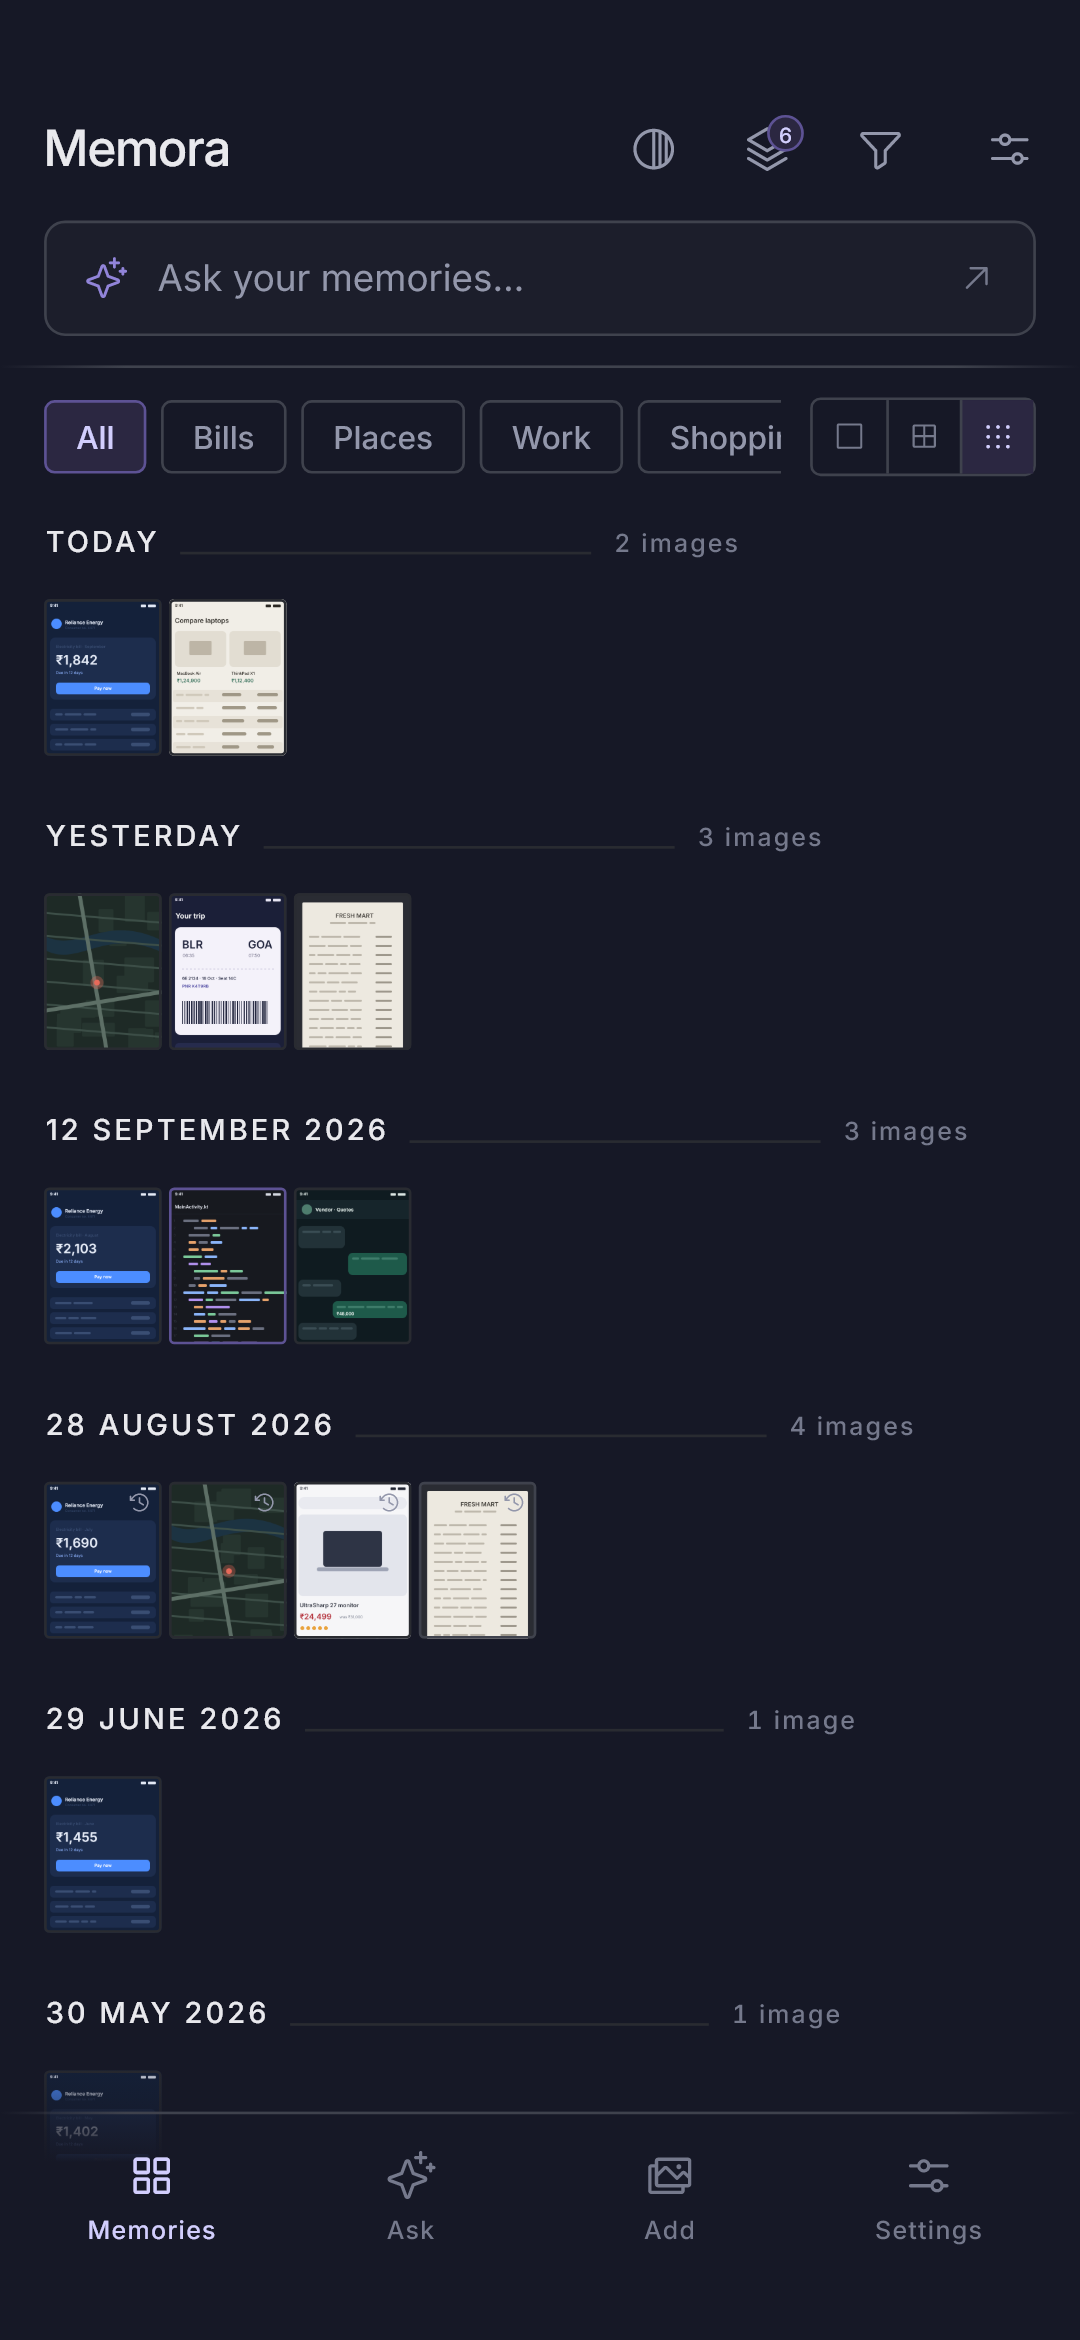
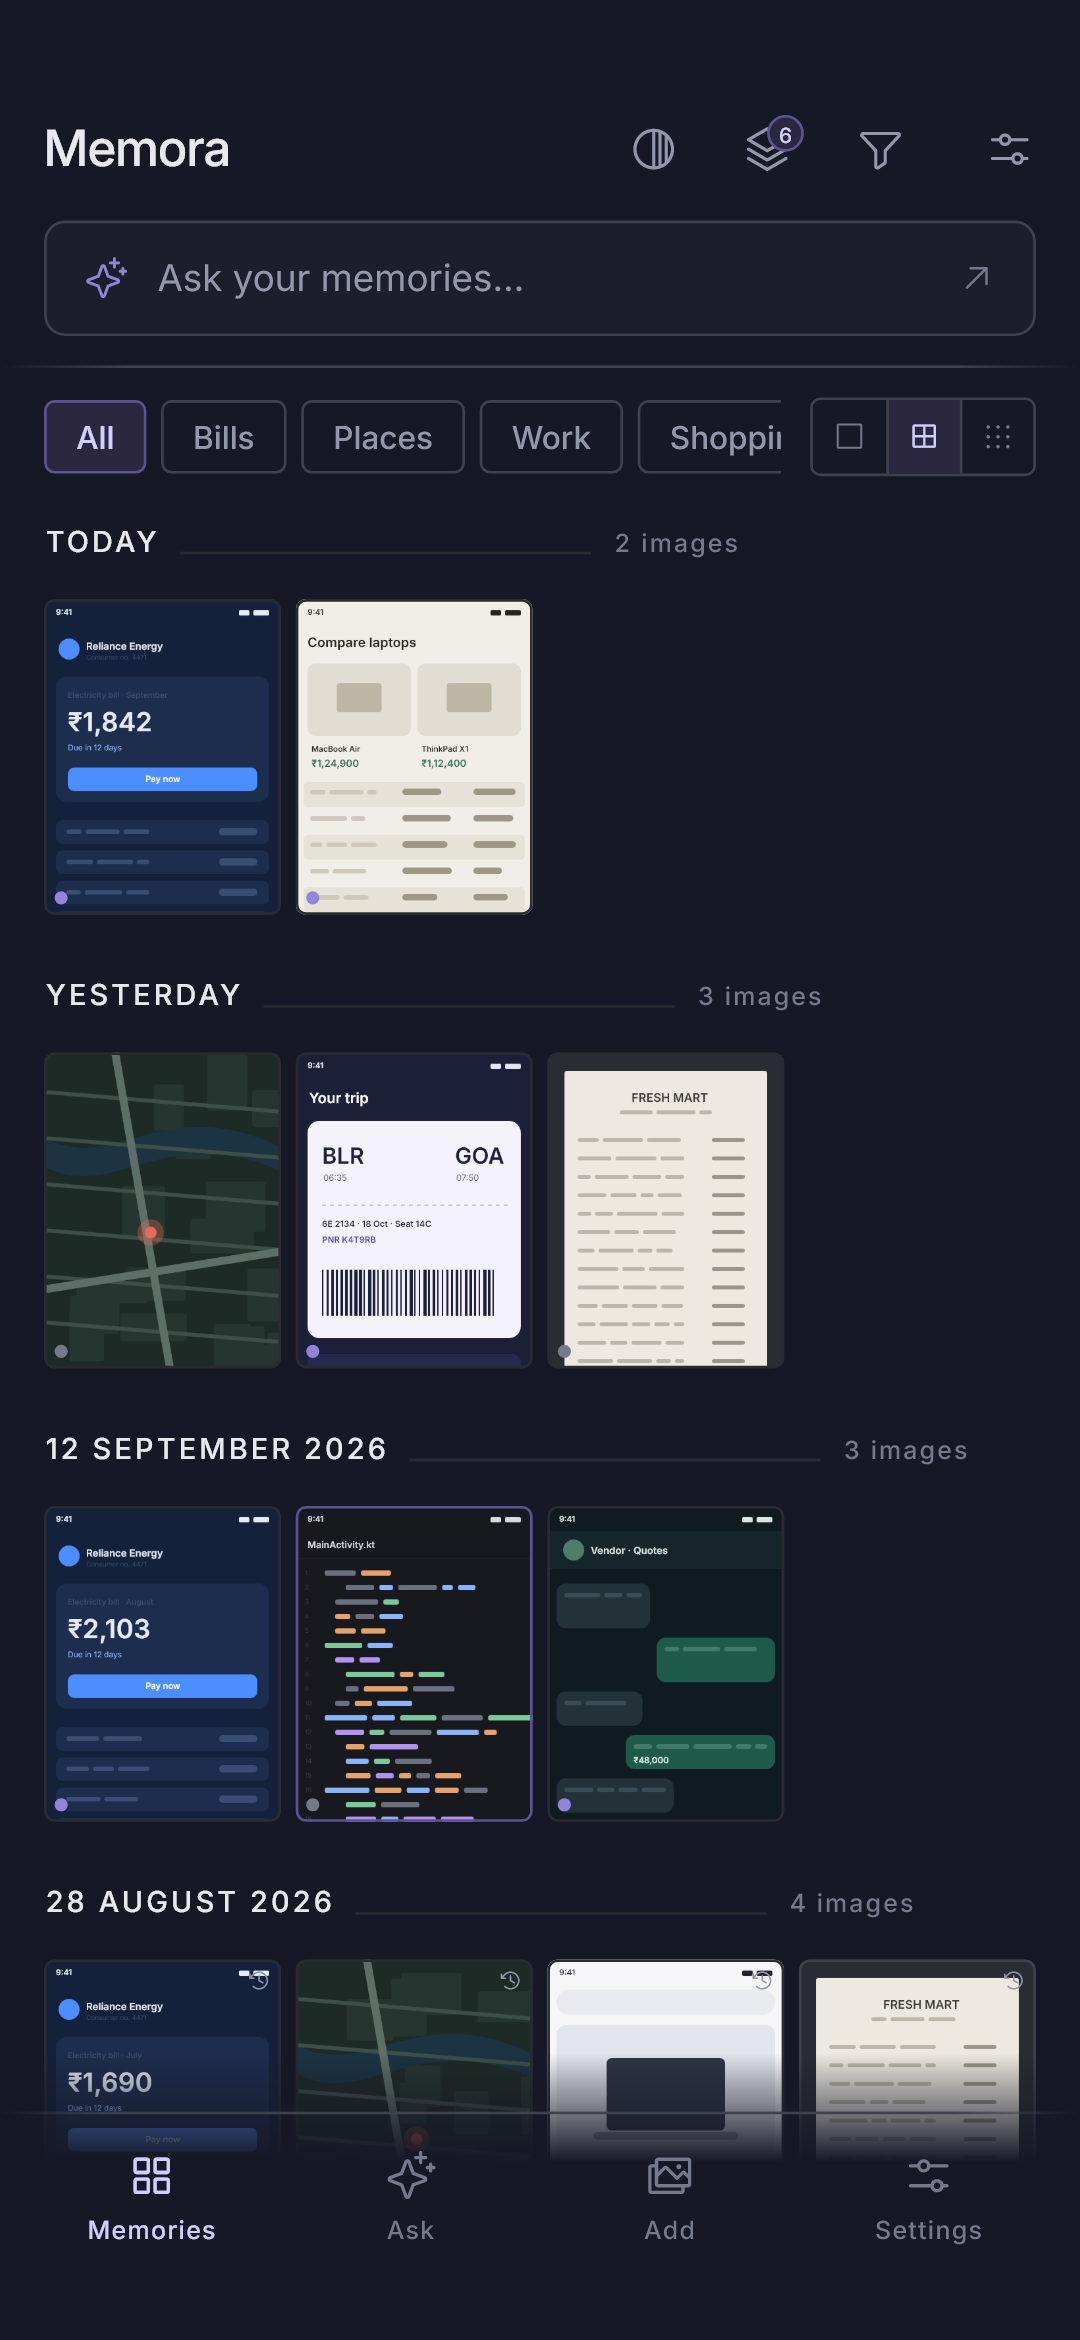
chore(ui): render the dense home screenshot at four columns

diff --git a/app/test/screenshots/screenshots_test.dart b/app/test/screenshots/screenshots_test.dart
@@ -116,9 +116,9 @@ void main() {
     await shoot(tester, '09-browser');
   });
 
-  testWidgets('home at eight columns', (tester) async {
+  testWidgets('home at four columns', (tester) async {
     final services = demoServices();
-    await services.preferences.setGridColumns(8);
+    await services.preferences.setGridColumns(4);
     await open(tester, Routes.home, services: services);
     await shoot(tester, '10-home-dense');
   });
